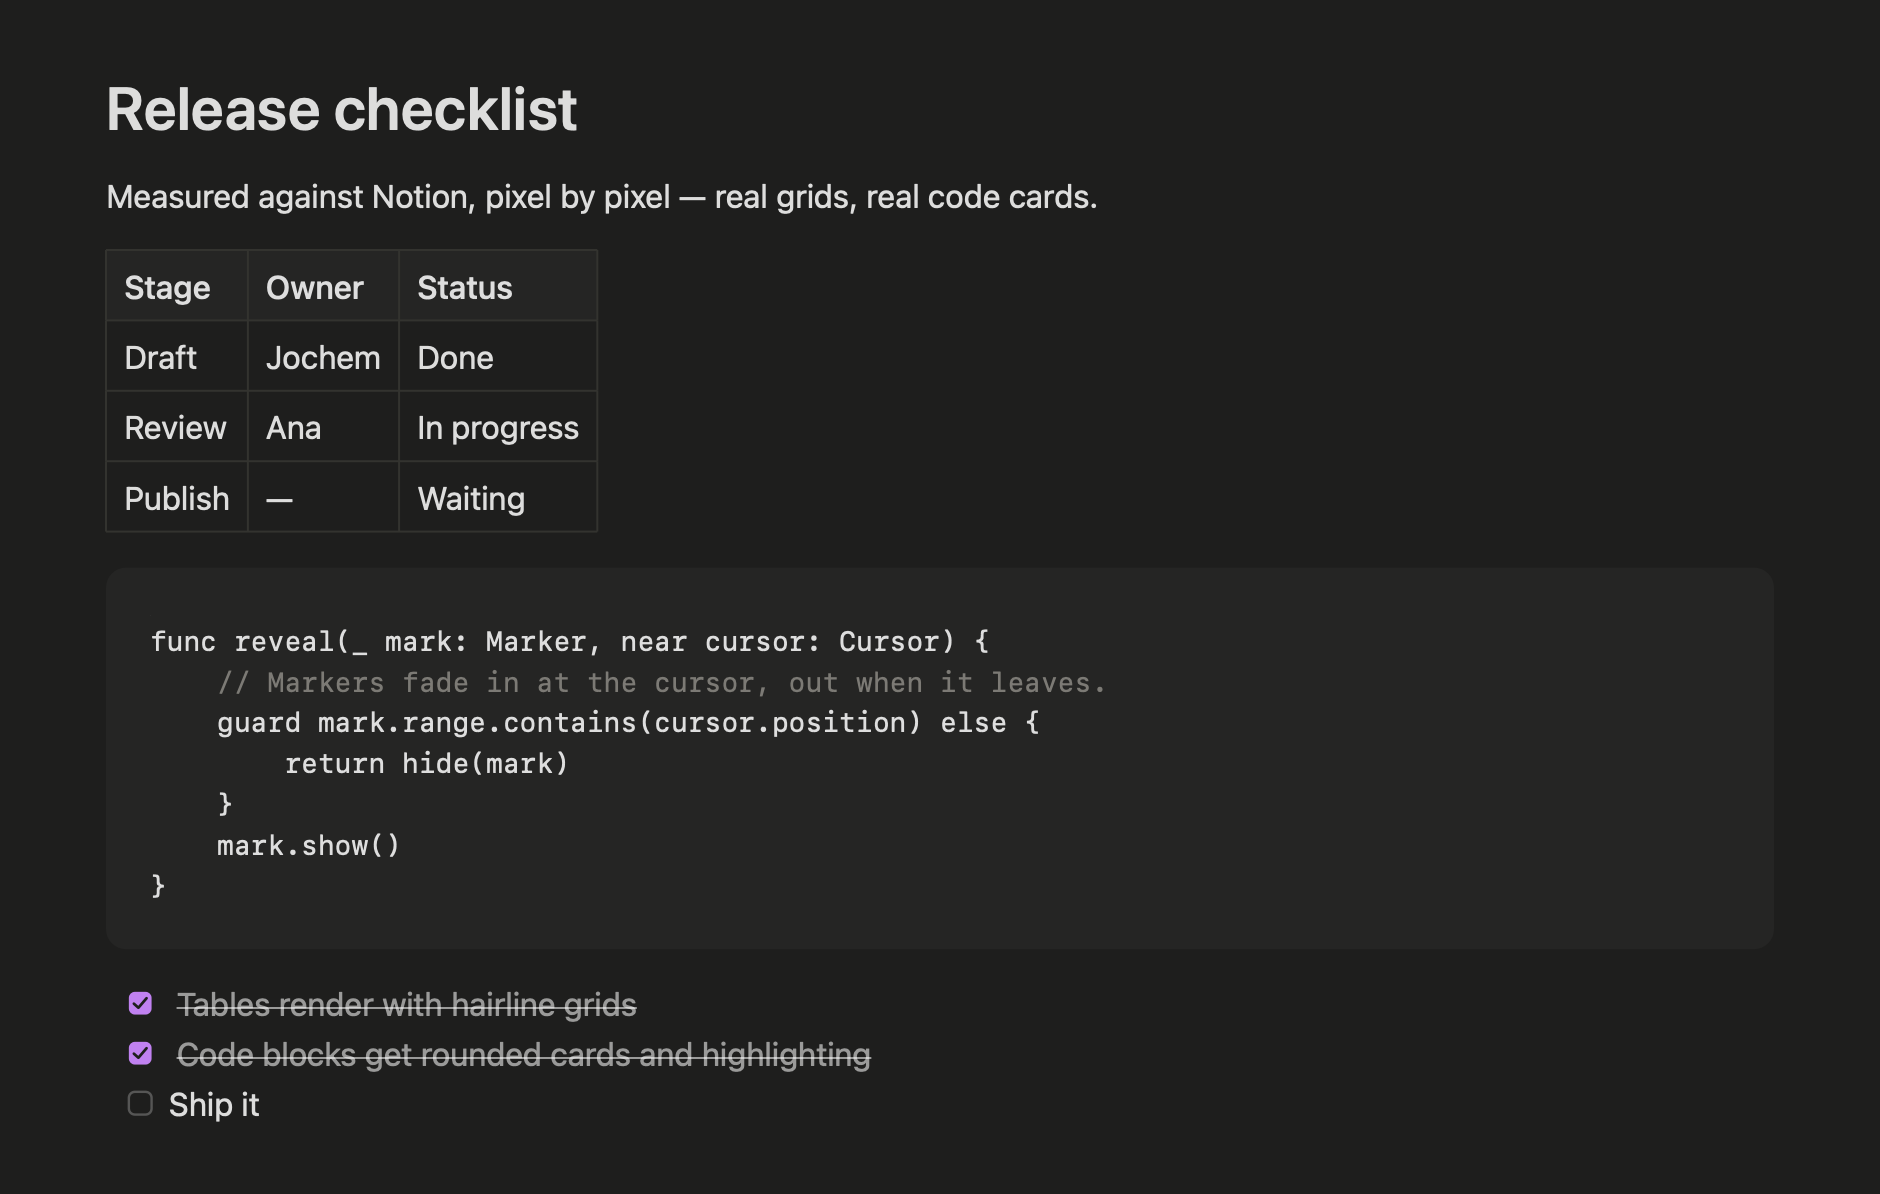
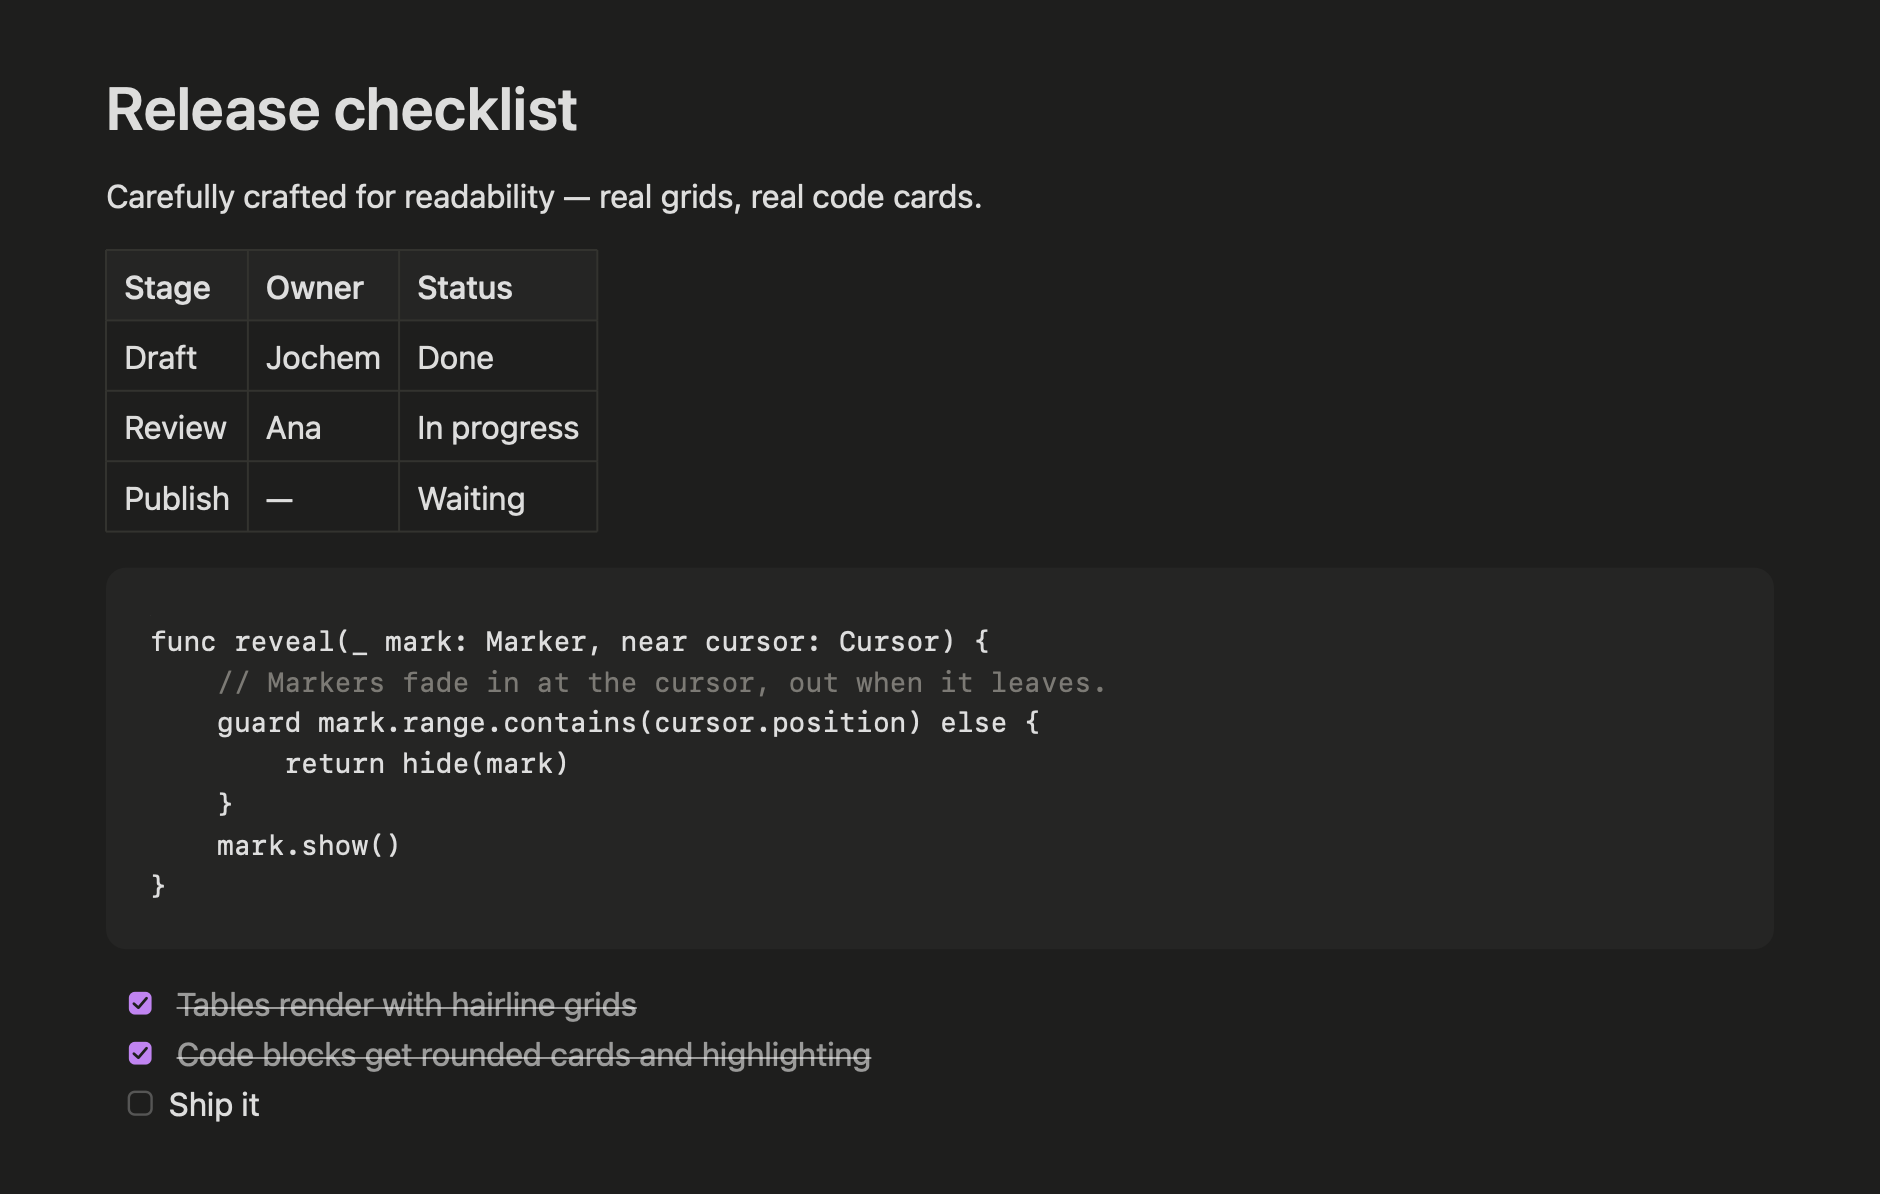
fix(site): drop the measured-from-Notion claim
Copy now says carefully crafted for readability; the parity screenshots
are re-rendered with the same wording change in the demo document.

Changed region(s): [[0.0617, 0.1549, 0.5862, 0.1859]]

diff --git a/marketing/site/index.html b/marketing/site/index.html
@@ -15,14 +15,14 @@
 <meta charset="utf-8">
 <meta name="viewport" content="width=device-width, initial-scale=1">
 <title>Marginal — markdown that reads the way it renders</title>
-<meta name="description" content="Marginal is a native macOS editor for plain .md files. The document renders live with Notion-quality typography; the syntax hides itself except around your cursor.">
+<meta name="description" content="Marginal is a native macOS editor for plain .md files. The document renders live with beautiful, carefully crafted typography; the syntax hides itself except around your cursor.">
 <meta property="og:type" content="website">
 <meta property="og:title" content="Marginal — markdown that reads the way it renders">
-<meta property="og:description" content="A native macOS WYSIWYG markdown editor. Plain .md files, Notion-quality rendering, markers that hide themselves except around your cursor.">
+<meta property="og:description" content="A native macOS WYSIWYG markdown editor. Plain .md files, beautiful, carefully crafted rendering, markers that hide themselves except around your cursor.">
 <meta property="og:image" content="icon.png">
 <meta name="twitter:card" content="summary">
 <meta name="twitter:title" content="Marginal — markdown that reads the way it renders">
-<meta name="twitter:description" content="A native macOS WYSIWYG markdown editor. Plain .md files, Notion-quality rendering, markers that hide themselves except around your cursor.">
+<meta name="twitter:description" content="A native macOS WYSIWYG markdown editor. Plain .md files, beautiful, carefully crafted rendering, markers that hide themselves except around your cursor.">
 <meta name="theme-color" content="#FFFEFC" media="(prefers-color-scheme: light)">
 <meta name="theme-color" content="#1E1E1D" media="(prefers-color-scheme: dark)">
 <link rel="icon" href="icon.png">
@@ -316,7 +316,7 @@
     <img class="appicon" src="icon.png" alt="Marginal app icon" width="116" height="116">
     <p class="eyebrow">Native macOS · Open source</p>
     <h1>Markdown that reads the way it renders.</h1>
-    <p class="lede">Marginal is a native macOS editor for plain <code class="chip">.md</code> files. The document renders live with Notion-quality typography; the syntax hides itself except around your cursor.</p>
+    <p class="lede">Marginal is a native macOS editor for plain <code class="chip">.md</code> files. The document renders live with beautiful, carefully crafted typography; the syntax hides itself except around your cursor.</p>
     <div class="cta-row">
       <a class="btn btn-primary" href="https://github.com/jberends/marginal/releases/latest">Download for macOS</a>
       <a class="btn btn-secondary" href="https://github.com/jberends/marginal">View on GitHub</a>
@@ -416,8 +416,8 @@ Inline `code` stays quiet.</code></div>
   <section class="parity">
     <div class="wrap">
       <div class="section-head">
-        <h2>Measured from Notion, pixel by pixel.</h2>
-        <p class="lede">Every table rule, code card, checkbox and heading was measured against Notion's rendering, then rebuilt in native AppKit. Real grids, rounded code cards with highlighting, task lists that strike themselves through.</p>
+        <h2>Beautiful by default.</h2>
+        <p class="lede">Every detail is carefully crafted for readability — real table grids, rounded code cards with highlighting, task lists that strike themselves through, headings with room to breathe. Typography you can read all day.</p>
       </div>
       <div class="window">
         <div class="titlebar">
